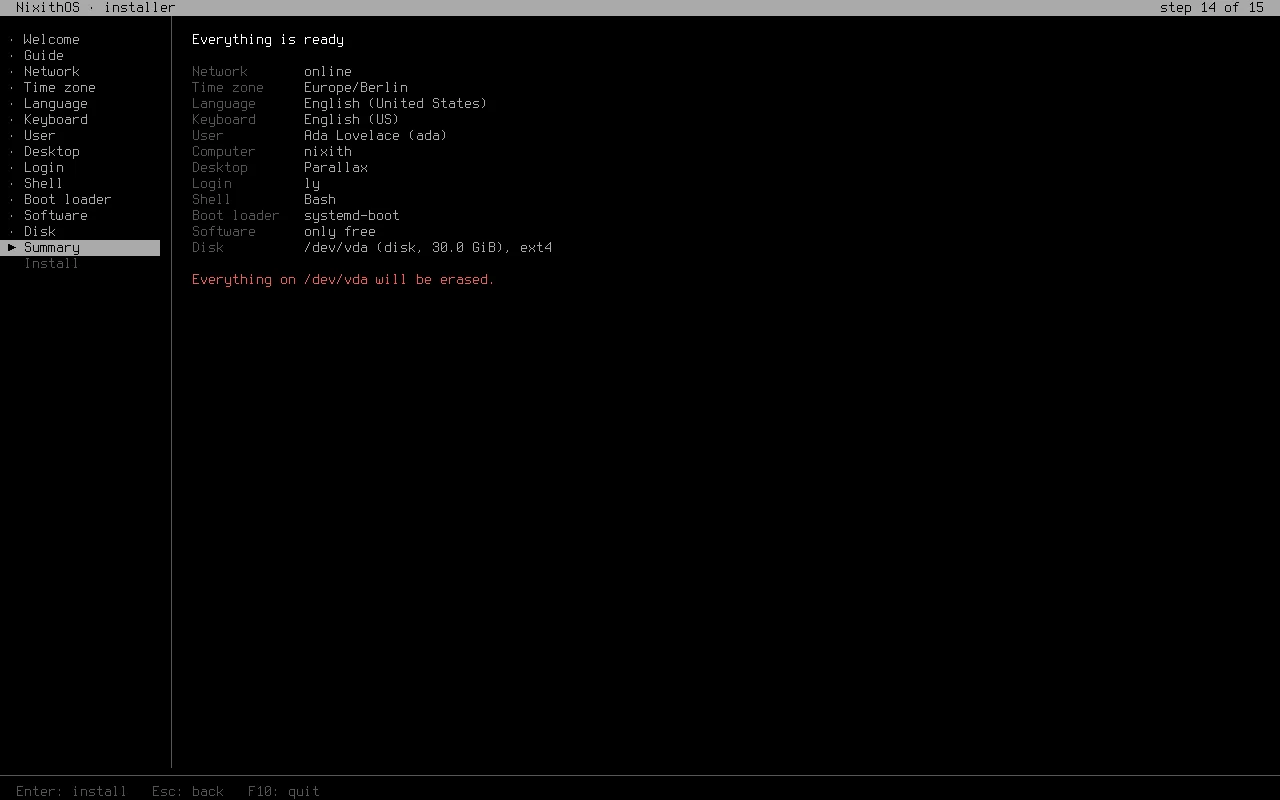
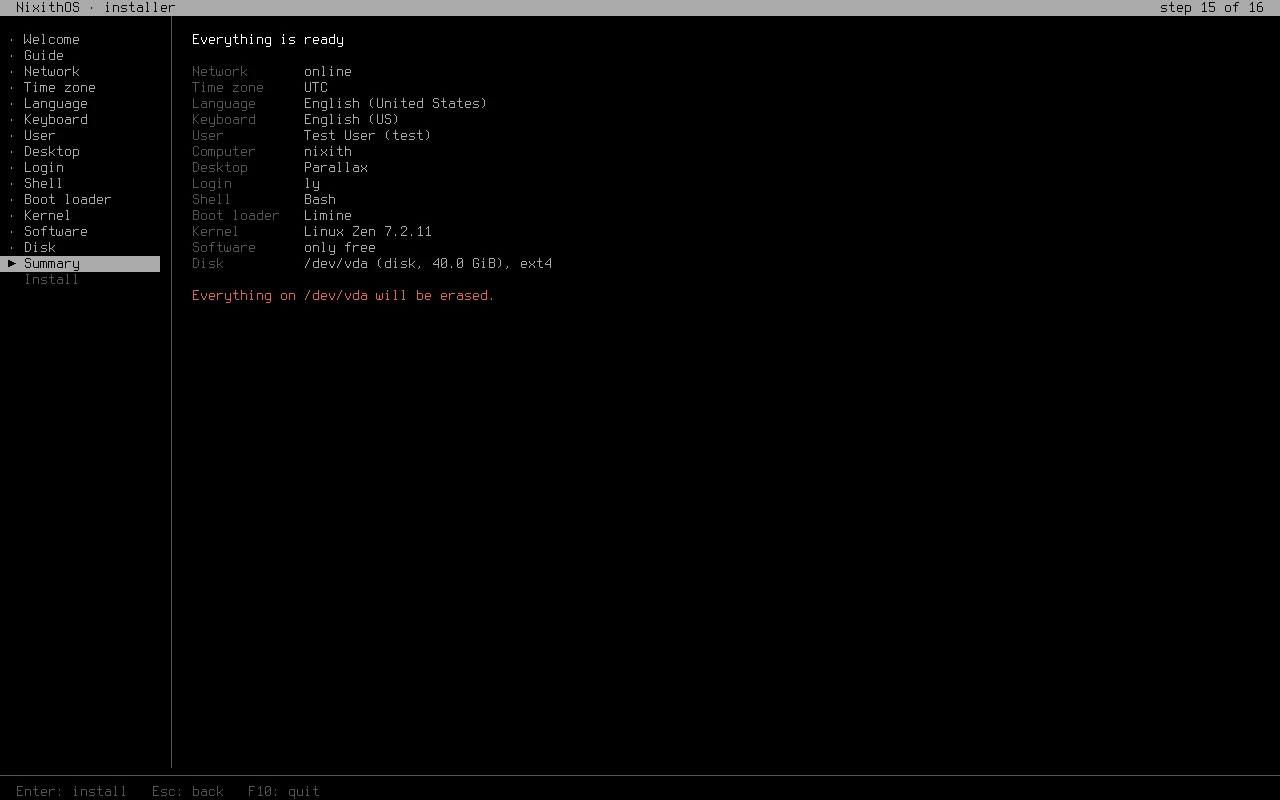
Сайт под выпуск 28.10: шаг «Ядро»
Шестнадцать шагов вместо пятнадцати, колонка «Ядро» среди вариантов
установщика (на ширине до 1100 px — три колонки, иначе systemd-boot
переносился), новый снимок итога со строкой ядра (Zen), дата выпуска.

diff --git a/site/ru/index.html b/site/ru/index.html
@@ -94,7 +94,7 @@
     <section id="install">
       <div class="sec-head">
         <h2>Установщик</h2>
-        <p>Образ сам запускает установщик: небольшую программу в консоли, на русском или английском, со скриншотом каждого варианта, как их показывал Calamares. Пятнадцать коротких шагов, и до подтверждения итога на диск ничего не пишется.</p>
+        <p>Образ сам запускает установщик: небольшую программу в консоли, на русском или английском, со скриншотом каждого варианта, как их показывал Calamares. Шестнадцать коротких шагов, и до подтверждения итога на диск ничего не пишется.</p>
       </div>
       <div class="shots">
         <figure class="wide">
@@ -118,7 +118,7 @@
           <figcaption><b>Рабочий стол.</b> Рядом со списком — скриншот выбранного варианта, здесь и у экрана входа, оболочки и загрузчика. Parallax есть на образе, остальные скачиваются во время установки.</figcaption>
         </figure>
         <figure>
-          <a href="../img/tui-summary.webp"><img src="../img/tui-summary.webp" width="1280" height="800" loading="lazy" alt="Шаг «Итог»: все ответы и диск, который будет стёрт"></a>
+          <a href="../img/tui-summary.webp"><img src="../img/tui-summary.webp" width="1280" height="800" loading="lazy" alt="Шаг «Итог»: все ответы, среди них ядро Linux Zen, и диск, который будет стёрт"></a>
           <figcaption><b>Итог.</b> Все ответы на одном экране и то, что будет стёрто.</figcaption>
         </figure>
         <figure>
@@ -164,13 +164,24 @@
             <li>rEFInd <span>UEFI</span></li>
           </ul>
         </div>
+        <div class="choice">
+          <h3>Ядро</h3>
+          <ul>
+            <li>Linux 6.18 <span>LTS</span></li>
+            <li>Linux 7.3 <span>новейшее</span></li>
+            <li>Linux 6.12 <span>LTS</span></li>
+            <li>Linux 6.6 <span>LTS</span></li>
+            <li>Zen</li>
+            <li>XanMod</li>
+          </ul>
+        </div>
       </div>
     </section>
 
     <section id="download">
       <div class="sec-head">
         <h2>Скачать</h2>
-        <p>Один образ для UEFI и BIOS, 1,8 ГБ, выпуск от 20 октября 2026. Запишите его на флешку (или положите на Ventoy) и загрузитесь с неё.</p>
+        <p>Один образ для UEFI и BIOS, 1,8 ГБ, выпуск от 28 октября 2026. Запишите его на флешку (или положите на Ventoy) и загрузитесь с неё.</p>
       </div>
       <div class="download">
         <div>

diff --git a/site/index.html b/site/index.html
@@ -94,7 +94,7 @@
     <section id="install">
       <div class="sec-head">
         <h2>The installer</h2>
-        <p>The image starts its installer by itself: a small program in the console, in English or Russian, with a screenshot of every choice, the way Calamares showed them. Fifteen short steps, and nothing is written to the disk until the summary is confirmed.</p>
+        <p>The image starts its installer by itself: a small program in the console, in English or Russian, with a screenshot of every choice, the way Calamares showed them. Sixteen short steps, and nothing is written to the disk until the summary is confirmed.</p>
       </div>
       <div class="shots">
         <figure class="wide">
@@ -118,7 +118,7 @@
           <figcaption><b>Desktop.</b> A screenshot of the choice is next to the list, here and for the login screen, the shell and the boot loader. Parallax is on the image; the others are downloaded during the installation.</figcaption>
         </figure>
         <figure>
-          <a href="img/tui-summary.webp"><img src="img/tui-summary.webp" width="1280" height="800" loading="lazy" alt="The Summary step listing every choice and the disk to be erased"></a>
+          <a href="img/tui-summary.webp"><img src="img/tui-summary.webp" width="1280" height="800" loading="lazy" alt="The Summary step listing every choice, Linux Zen as the kernel among them, and the disk to be erased"></a>
           <figcaption><b>Summary.</b> Every answer on one screen, and what will be erased.</figcaption>
         </figure>
         <figure>
@@ -164,13 +164,24 @@
             <li>rEFInd <span>UEFI</span></li>
           </ul>
         </div>
+        <div class="choice">
+          <h3>Kernel</h3>
+          <ul>
+            <li>Linux 6.18 <span>LTS</span></li>
+            <li>Linux 7.3 <span>newest</span></li>
+            <li>Linux 6.12 <span>LTS</span></li>
+            <li>Linux 6.6 <span>LTS</span></li>
+            <li>Zen</li>
+            <li>XanMod</li>
+          </ul>
+        </div>
       </div>
     </section>
 
     <section id="download">
       <div class="sec-head">
         <h2>Download</h2>
-        <p>One image for UEFI and BIOS, 1.8 GB, released on 20 October 2026. Write it to a USB stick (or put it on Ventoy) and boot from it.</p>
+        <p>One image for UEFI and BIOS, 1.8 GB, released on 28 October 2026. Write it to a USB stick (or put it on Ventoy) and boot from it.</p>
       </div>
       <div class="download">
         <div>

diff --git a/site/style.css b/site/style.css
@@ -126,7 +126,7 @@ dl.cmds dd{margin:0;color:var(--muted);font-size:15.5px}
 .shots figcaption b{color:var(--ink);font-weight:600}
 
 /* installer choices */
-.choices{display:grid;grid-template-columns:repeat(4,1fr);gap:28px}
+.choices{display:grid;grid-template-columns:repeat(5,1fr);gap:28px}
 .choice h3{font-family:var(--font-mono);font-weight:500;font-size:12.5px;letter-spacing:.08em;text-transform:uppercase;color:var(--muted);margin-bottom:12px}
 .choice ul{list-style:none;margin:0;padding:0;display:flex;flex-direction:column;gap:6px}
 .choice li{display:flex;justify-content:space-between;gap:8px;padding-block:6px;border-bottom:1px dashed var(--line)}
@@ -143,6 +143,9 @@ dl.cmds dd{margin:0;color:var(--muted);font-size:15.5px}
 
 footer{border-top:1px solid var(--line);padding-block:28px 40px;display:flex;justify-content:space-between;gap:16px;flex-wrap:wrap;color:var(--muted);font-size:14px}
 
+@media (max-width:1100px){
+  .choices{grid-template-columns:repeat(3,1fr)}
+}
 @media (max-width:860px){
   .hero{grid-template-columns:1fr;padding-block:48px}
   .mark{max-width:220px;justify-self:start;order:-1}
